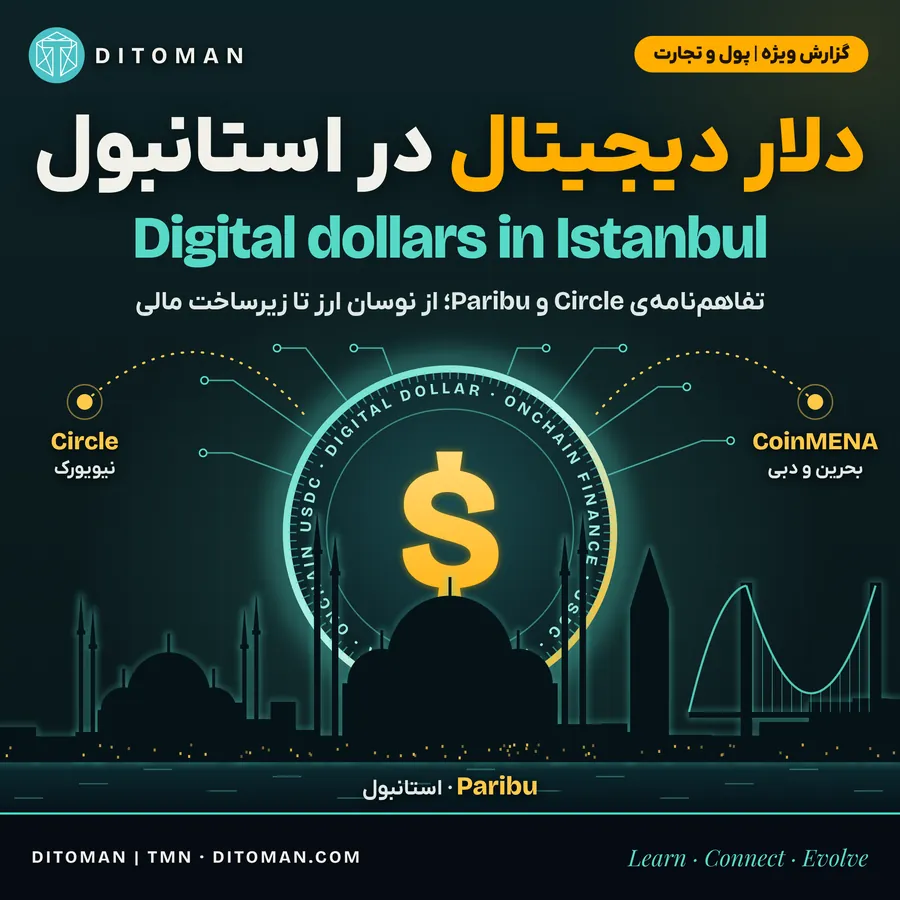
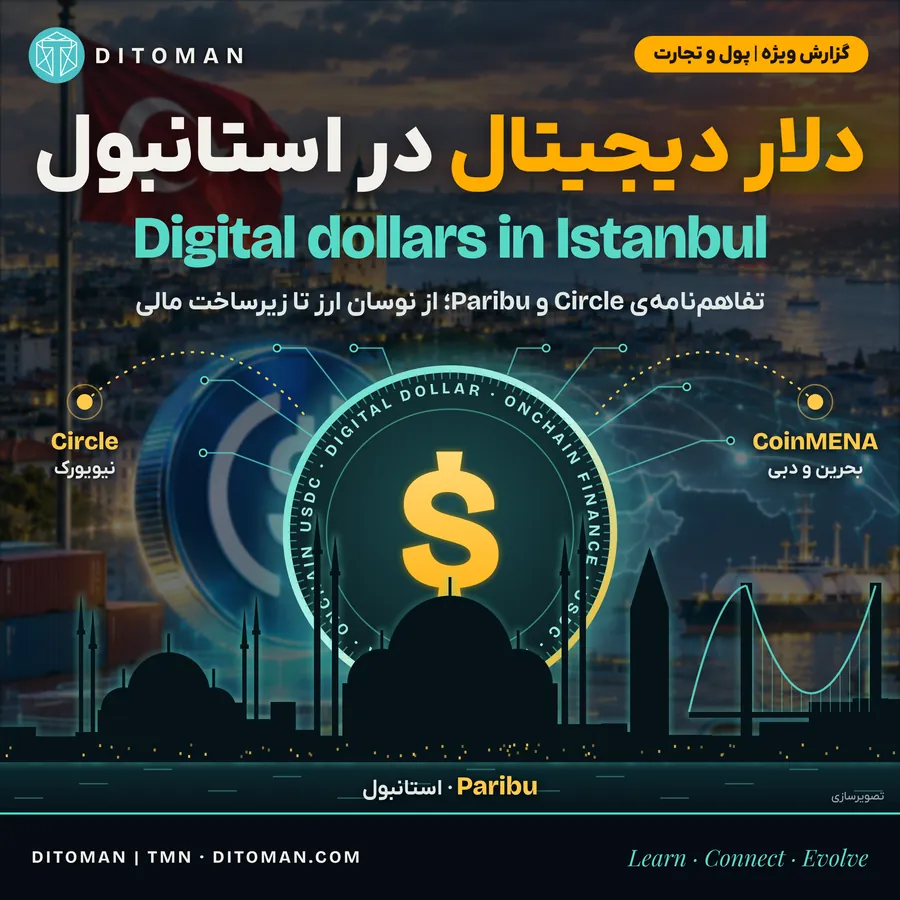
Digital dollar report: photo background cover; Telegram post
Claude-Session: https://claude.ai/code/session_012uZ8KiEEJt1CcpRZeg7KSX

diff --git a/telegram/2026-11-24-06-digital-dollar-istanbul.md b/telegram/2026-11-24-06-digital-dollar-istanbul.md
@@ -1,0 +1,59 @@
+image: social/turkey-digital-dollar-circle-paribu/post.png
+💵 **امروز چند بار قیمت دلار را چک کردی؟**
+
+اگر جوابت «چند بار» است، تنها نیستی. ولی بیا امروز یک قدم عقبتر بایستیم و بهجای عدد، به ماشین پشت عدد نگاه کنیم. خبر امروز استانبول بهانهی خوبی است 👇
+
+**📍 خبر در سه خط**
+
+شرکت آمریکایی **Circle**، صادرکنندهی دلار دیجیتال **USDC**، با **Paribu**، از بزرگترین پلتفرمهای دارایی دیجیتال ترکیه، تفاهمنامه امضا کرد.
+
+هدف: بررسی گسترش دلار دیجیتال، توکنیزه کردن داراییهای واقعی و امانتداری سازمانی در ترکیه.
+
+Paribu از شهریور واریز و برداشت USDC روی شبکهی تازهی Circle، یعنی **Arc**، را هم راه انداخته است.
+
+**🔄 ترکیه، آن روز و امروز**
+
+**مهر ۱۴۰۱:** تورم **۸۵٫۵٪**، لیر در سقوط، ترکها هم ساعتبهساعت دلار را چک میکردند.
+
+**مهر ۱۴۰۵:** تورم **۲۹٫۷۷٪**، قانون رمزدارایی، مجوز اجباری برای صرافیها و حالا امضا با Circle.
+
+طوفان گذشت؛ **زیرساخت ماند.**
+
+**🧠 سه سؤال مهمتر از نرخ امروز**
+
+**۱. دلار دیجیتال از کجا میآید؟**
+نهاد مالی دلار واقعی میدهد و Circle همانقدر USDC میسازد. پس دادن USDC یعنی سوزاندن توکن و برگشت دلار. پشتوانه: پول نقد و اوراق کوتاهمدت خزانهی آمریکا.
+
+**۲. پول چطور جابهجا میشود؟**
+مسیر بانکی: چند بانک واسطه و چند روز کاری. مسیر USDC: چند ثانیه، شبانهروزی، حتی در تعطیلات. تبدیل ارز در دو سر مسیر اما سر جایش است.
+
+**۳. چه کسی میتواند جلوی پول را بگیرد؟**
+صادرکننده. Circle میتواند آدرسها را مسدود کند و ایران در فهرست مناطق تحریمیاش است.
+
+**📊 اندازهی ماجرا**
+
+▫ **۷۳٫۳ میلیارد دلار** USDC در گردش (میانگین فصل سوم ۲۰۲۶)
+
+▫ **۱۳٫۹ تریلیون دلار** تراکنش USDC فقط در سه ماه
+
+▫ **حدود ۲۰۰ میلیارد دلار** حجم سالانهی رمزارز در ترکیه؛ اول در خاورمیانه
+
+**🇮🇷 و ما؟**
+
+این توافق راه پرداختی برای ایران باز نمیکند. اما ایران و ترکیه سالی حدود **۵٫۷ میلیارد دلار** با هم تجارت میکنند و همسایهها دارند زبان تازهی تجارت را یاد میگیرند: پرداخت شبانهروزی، قرارداد هوشمند، دارایی توکنیزه.
+
+کسی که این زبان را امروز یاد بگیرد، فردا کار دارد: برنامهنویس بلاکچین، کارشناس انطباق، متخصص تأمین مالی تجارت، حقوقدان دارایی دیجیتال.
+
+🌱 **نگاه دیتومان**
+
+ایران همیشه با نوسان ارز زندگی کرده و هر بار از آن عبور کرده است. این روزها هم میگذرد و به امید خدا روزهای بهتر برمیگردد. عدد دلار هر روز عوض میشود؛ چیزی که میماند، فهم ما از این است که پول چطور کار میکند.
+
+این متن آموزشی است و توصیهی خرید و فروش نیست.
+
+📖 گزارش کامل: سازوکار USDC، شبکهی Arc، درس ترکیه، جایگاه ایران و منابع:
+👈 https://ditoman.com/turkey-digital-dollar-circle-paribu.html
+
+📊 قیمت لحظهای تتر، بیتکوین و طلا، هر وقت بخواهی:
+👈 https://ditoman.com/prices.html
+
+#دلار_دیجیتال #ترکیه #بلاکچین #یاد_بگیر #دیتومان
